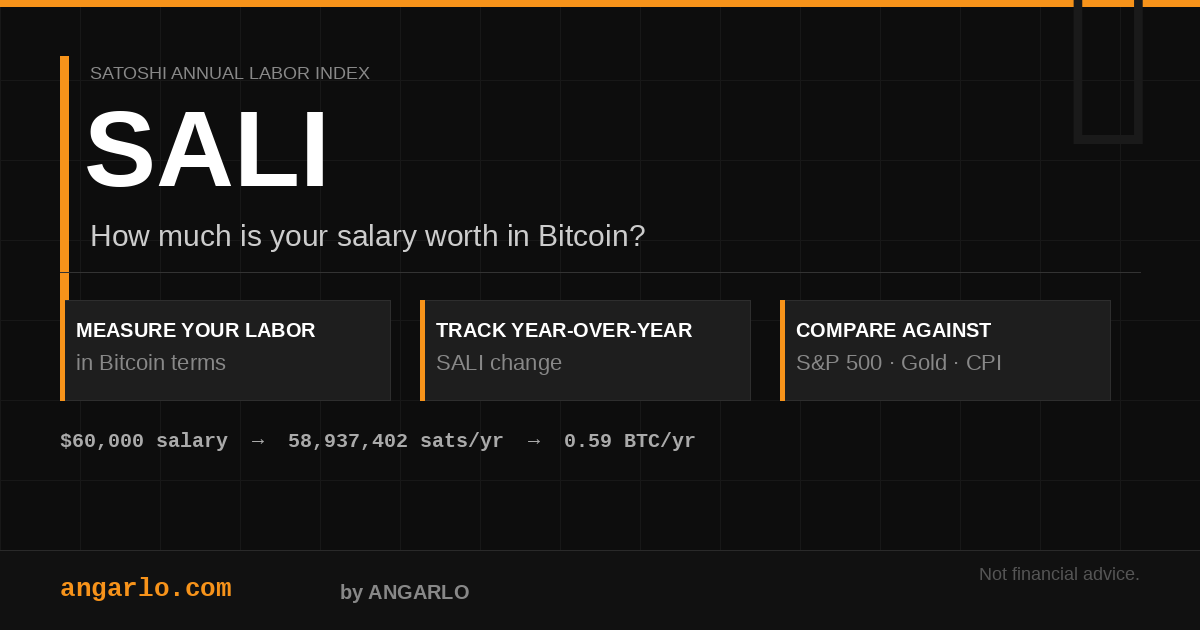
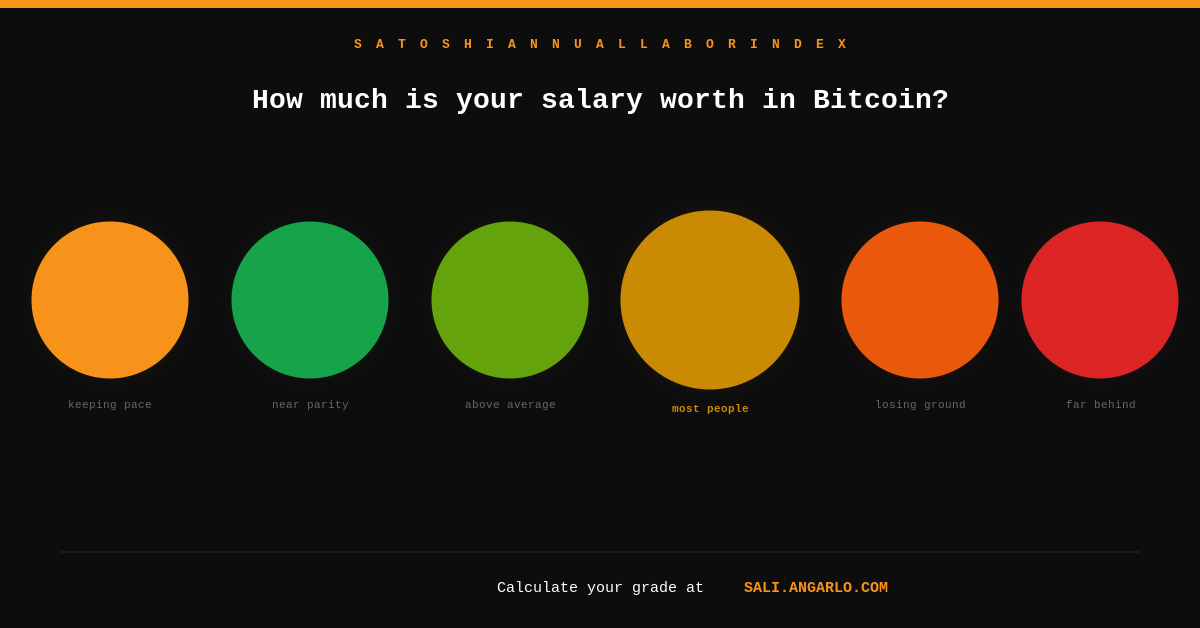
feat: medal share card, punchy tweet text, new og:image

diff --git a/assets/js/app.js b/assets/js/app.js
@@ -400,15 +400,20 @@
     let text;
     if (gradeData) {
       const { grade, annualRate, gap } = gradeData;
-      const rateStr = `${annualRate.toFixed(1)}%/yr`;
-      const gapStr = gap > 0.1
-        ? `Need +${gap.toFixed(1)}%/yr more to keep pace`
-        : gap < -0.1
-          ? `Outpacing Bitcoin by ${Math.abs(gap).toFixed(1)}%/yr`
-          : 'At break-even with Bitcoin';
-      text = `My SALI Grade: ${grade} · ${rateStr} Bitcoin purchasing power · ${gapStr} · #Bitcoin #SALI`;
+      const rateStr = annualRate >= 0 ? `+${annualRate.toFixed(1)}%/yr` : `${annualRate.toFixed(1)}%/yr`;
+
+      let hook;
+      if (annualRate >= 0) {
+        hook = `my salary is actually keeping pace with Bitcoin (${rateStr}). Extremely rare.`;
+      } else if (gap > 0.1) {
+        hook = `my salary loses ${rateStr} to Bitcoin every year. I'd need a +${gap.toFixed(1)}%/yr raise just to break even.`;
+      } else {
+        hook = `my salary is right at Bitcoin break-even (${rateStr}). Holding the line.`;
+      }
+
+      text = `🟠 SALI Grade: ${grade} — ${hook}\n\nWhat’s your grade? #Bitcoin #SALI`;
     } else {
-      text = 'How much is your salary worth in Bitcoin? Check your SALI grade → #Bitcoin #SALI';
+      text = `🟠 How much is your salary worth in Bitcoin?\n\nCalculate your SALI Grade → #Bitcoin #SALI`;
     }
 
     const url = 'https://sali.angarlo.com';
@@ -417,17 +422,9 @@
   }
 
   /**
-   * Generate and download a share card PNG
+   * Generate and download a share card PNG — dark medal design
    */
   function generateShareCard() {
-    const salary = parseFloat(elements.salaryInput ? elements.salaryInput.value : 0) || 0;
-    const currency = elements.currencySelect ? elements.currencySelect.value : 'USD';
-    const satsText = elements.saliSatsOutput ? elements.saliSatsOutput.textContent : '—';
-    const btcPriceText = elements.btcPriceDisplay ? elements.btcPriceDisplay.textContent.replace('Spot: ', '') : '—';
-    const histEl = elements.historicalChangeOutput;
-    const histYearEl = elements.historicalChangeYear;
-    const projEl = elements.saliYoyOutput;
-
     const W = 1200, H = 628, DPR = 2;
     const canvas = document.createElement('canvas');
     canvas.width = W * DPR;
@@ -436,127 +433,133 @@
     ctx.scale(DPR, DPR);
 
     const orange = '#F7931A';
-    const black = '#111111';
-    const gray = '#666666';
-    const lightGray = '#f5f5f5';
+    const bgColor = '#0d0d0d';
+    const white = '#ffffff';
+    const muted = '#888888';
     const font = '"Roboto Mono", "Courier New", monospace';
 
-    // Background
-    ctx.fillStyle = '#ffffff';
-    ctx.fillRect(0, 0, W, H);
-
-    // Top orange bar
-    ctx.fillStyle = orange;
-    ctx.fillRect(0, 0, W, 8);
-
-    // Left accent bar
-    ctx.fillStyle = orange;
-    ctx.fillRect(60, 60, 6, 180);
-
-    // Label
-    ctx.fillStyle = gray;
-    ctx.font = `600 16px ${font}`;
-    ctx.textAlign = 'left';
-    ctx.fillText('SATOSHI ANNUAL LABOR INDEX', 84, 95);
-
-    // Grade + insights drawn below (in the stats section)
-
-    // Divider
-    ctx.strokeStyle = '#e5e5e5';
-    ctx.lineWidth = 1;
-    ctx.beginPath();
-    ctx.moveTo(60, 272);
-    ctx.lineTo(W - 60, 272);
-    ctx.stroke();
-
-    // Stats row
-    const statsY = 330;
-    const colW = 280;
-
-    const drawStat = (label, value, x, color) => {
-      ctx.fillStyle = gray;
-      ctx.font = `500 13px ${font}`;
-      ctx.textAlign = 'left';
-      ctx.fillText(label, x, statsY);
-      ctx.fillStyle = color || black;
-      ctx.font = `700 26px ${font}`;
-      ctx.fillText(value, x, statsY + 34);
-    };
-
-    // Grade — read from live DOM
+    // Grade data — read from live DOM
     const gradeEl   = elements.saliScoreGrade;
     const rateEl    = elements.saliScoreRate;
     const gapEl     = elements.saliScoreGap;
-    const gradeText = gradeEl ? gradeEl.textContent.trim() : '—';
-    const rateText  = rateEl  ? rateEl.textContent.trim()  : '—';
-    const gapText   = gapEl   ? gapEl.textContent.trim()   : '—';
+    const tagEl     = elements.saliScoreTagline;
+    const gradeText   = gradeEl ? gradeEl.textContent.trim() : '—';
+    const rateText    = rateEl  ? rateEl.textContent.trim()  : '—';
+    const gapText     = gapEl   ? gapEl.textContent.trim()   : '—';
+    const taglineText = tagEl   ? tagEl.textContent.trim()   : '';
 
-    // Big grade letter in place of the number
     const gradeColors = { S:'#F7931A', A:'#16a34a', B:'#65a30d', C:'#ca8a04', D:'#ea580c', F:'#dc2626' };
     const gradeColor  = gradeColors[gradeText] || orange;
 
+    // ── Background ──────────────────────────────────────────
+    ctx.fillStyle = bgColor;
+    ctx.fillRect(0, 0, W, H);
+
+    // Top orange stripe
+    ctx.fillStyle = orange;
+    ctx.fillRect(0, 0, W, 8);
+
+    // ── Header label ────────────────────────────────────────
+    ctx.fillStyle = orange;
+    ctx.font = `600 13px ${font}`;
+    ctx.textAlign = 'center';
+    ctx.fillText('S A T O S H I   A N N U A L   L A B O R   I N D E X', W / 2, 46);
+
+    // ── Medal circle ────────────────────────────────────────
+    const cx = W / 2, cy = 278, R = 150;
+
+    // Radial glow behind circle
+    const glow = ctx.createRadialGradient(cx, cy, R * 0.3, cx, cy, R * 1.8);
+    glow.addColorStop(0, gradeColor + '28');
+    glow.addColorStop(1, 'transparent');
+    ctx.fillStyle = glow;
+    ctx.beginPath();
+    ctx.arc(cx, cy, R * 1.8, 0, Math.PI * 2);
+    ctx.fill();
+
+    // Circle fill
+    ctx.fillStyle = gradeColor + '18';
+    ctx.beginPath();
+    ctx.arc(cx, cy, R, 0, Math.PI * 2);
+    ctx.fill();
+
+    // Circle ring
+    ctx.strokeStyle = gradeColor;
+    ctx.lineWidth = 7;
+    ctx.beginPath();
+    ctx.arc(cx, cy, R, 0, Math.PI * 2);
+    ctx.stroke();
+
+    // Grade letter — centered in circle
     ctx.fillStyle = gradeColor;
-    ctx.font = `700 72px ${font}`;
-    ctx.textAlign = 'left';
-    ctx.fillText(gradeText, 84, 195);
+    ctx.font = `700 200px ${font}`;
+    ctx.textAlign = 'center';
+    ctx.textBaseline = 'middle';
+    ctx.fillText(gradeText, cx, cy + 10);
+    ctx.textBaseline = 'alphabetic';
 
-    // "SALI GRADE" label (replaces the sat count)
-    ctx.fillStyle = gray;
-    ctx.font = `400 26px ${font}`;
-    ctx.fillText('SALI Grade', 84, 235);
+    // ── Below medal ─────────────────────────────────────────
+    const belowR = cy + R;
 
-    // Stats row — rate + gap + year + BTC price (no salary)
-    drawStat('BTC PRICE', btcPriceText, 60);
-    drawStat('YEAR', String(CURRENT_YEAR), 60 + colW);
+    // "SALI GRADE" micro-label
+    ctx.fillStyle = muted;
+    ctx.font = `500 12px ${font}`;
+    ctx.textAlign = 'center';
+    ctx.fillText('S A L I   G R A D E', cx, belowR + 26);
 
-    if (rateText && rateText !== '—') {
-      const rColor = rateText.startsWith('-') ? '#dc2626' : '#16a34a';
-      drawStat('BTC PWR/YR', rateText.replace(' Bitcoin purchasing power', ''), 60 + colW * 2, rColor);
-    }
+    // Tagline
+    ctx.fillStyle = white;
+    ctx.font = `400 17px ${font}`;
+    ctx.fillText(taglineText, cx, belowR + 54);
 
-    if (gapText && gapText !== '—') {
-      drawStat('BREAKEVEN GAP', gapText.replace('Need ', '').replace(' more salary growth to keep pace', ''), 60 + colW * 3, gray);
-    }
+    // Stats — rate · gap
+    const rateClean = rateText.replace(' Bitcoin purchasing power', '');
+    const gapClean  = gapText
+      .replace('Need ', '')
+      .replace(' more salary growth to keep pace', '')
+      .replace('Outpacing Bitcoin by ', '+')
+      .replace('At break-even with Bitcoin', '= break-even');
+    ctx.fillStyle = muted;
+    ctx.font = `500 13px ${font}`;
+    ctx.fillText(`${rateClean}   ·   ${gapClean}`, cx, belowR + 82);
 
-    // Orange accent bar below stats
-    ctx.fillStyle = 'rgba(247, 147, 26, 0.08)';
-    ctx.fillRect(0, H - 88, W, 88);
+    // ── Footer ──────────────────────────────────────────────
+    // Divider
+    ctx.strokeStyle = '#2a2a2a';
+    ctx.lineWidth = 1;
+    ctx.beginPath();
+    ctx.moveTo(60, H - 72);
+    ctx.lineTo(W - 60, H - 72);
+    ctx.stroke();
 
     ctx.fillStyle = orange;
-    ctx.font = `600 18px ${font}`;
+    ctx.font = `700 15px ${font}`;
     ctx.textAlign = 'left';
-    ctx.fillText('SALI.ANGARLO.COM', 60, H - 52);
+    ctx.fillText('SALI.ANGARLO.COM', 60, H - 40);
 
-    ctx.fillStyle = gray;
-    ctx.font = `400 13px ${font}`;
+    ctx.fillStyle = muted;
+    ctx.font = `400 12px ${font}`;
     ctx.textAlign = 'right';
-    ctx.fillText('For informational purposes only. Not financial advice.', W - 60, H - 52);
+    ctx.fillText('Not financial advice.', W - 60, H - 40);
 
-    // Download
+    // ── Download ────────────────────────────────────────────
     canvas.toBlob(blob => {
-      const url = URL.createObjectURL(blob);
+      const dlUrl = URL.createObjectURL(blob);
       const a = document.createElement('a');
-      a.href = url;
-      a.download = `sali-${CURRENT_YEAR}.png`;
+      a.href = dlUrl;
+      a.download = `sali-grade-${gradeText}-${CURRENT_YEAR}.png`;
       a.click();
-      URL.revokeObjectURL(url);
+      URL.revokeObjectURL(dlUrl);
     }, 'image/png');
 
-    // Clipboard: copy shareable URL + summary text
+    // ── Clipboard: punchy text + URL ─────────────────────────
     const shareUrl = 'https://sali.angarlo.com';
-    const gradeElSnap  = elements.saliScoreGrade;
-    const rateElSnap   = elements.saliScoreRate;
-    const gapElSnap    = elements.saliScoreGap;
-    const gradeSnap    = gradeElSnap ? gradeElSnap.textContent.trim() : '—';
-    const rateSnap     = rateElSnap  ? rateElSnap.textContent.trim()  : '—';
-    const gapSnap      = gapElSnap   ? gapElSnap.textContent.trim()   : '—';
-    const textSummary  = `My SALI Grade: ${gradeSnap} | ${rateSnap} | ${gapSnap}\n${shareUrl}`;
+    const textSummary = `🟠 SALI Grade: ${gradeText} | ${rateClean} | ${gapClean}\n${shareUrl}`;
     navigator.clipboard.writeText(textSummary).catch(() => {});
 
-    // Update button label briefly to confirm copy
     if (elements.shareSaliBtn) {
       const original = elements.shareSaliBtn.textContent;
-      elements.shareSaliBtn.textContent = '✓ Link & Card Copied';
+      elements.shareSaliBtn.textContent = '✓ Card & Link Copied';
       setTimeout(() => { elements.shareSaliBtn.textContent = original; }, 2500);
     }
   }

diff --git a/index.html b/index.html
@@ -20,7 +20,7 @@
   <meta name="twitter:title" content="SALI — How much is your salary worth in Bitcoin?">
   <meta name="twitter:description" content="Enter your salary and see it in satoshis — Bitcoin's base unit. Track how your earning power compares to Bitcoin, year over year.">
   <meta name="twitter:image" content="https://sali.angarlo.com/assets/images/sali-share.png">
-  <link rel="stylesheet" href="/assets/css/styles.css?v=ab6c8e6">
+  <link rel="stylesheet" href="/assets/css/styles.css?v=2">
 </head>
 <body>
   <!-- Navigation -->
@@ -448,7 +448,7 @@
 
   <!-- Scripts -->
   <script src="https://cdn.jsdelivr.net/npm/chart.js@4.4.1/dist/chart.umd.min.js"></script>
-  <script src="/assets/js/app.js?v=ab6c8e6"></script>
+  <script src="/assets/js/app.js?v=2"></script>
   <script src="/assets/js/theme.js"></script>
 </body>
 </html>
